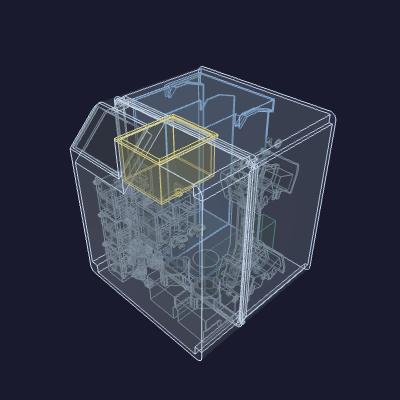
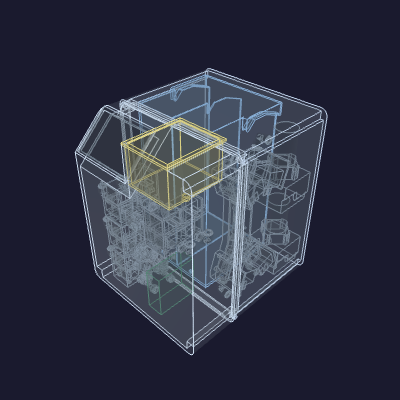
enclosure: reframe the zone layout as flexible, not a firm spec
The 'What is firm' / 'What is flexible' split becomes 'Constraints the layout respects': the zone arrangement is the current working pack, free to rearrange so long as it respects the genuine physical and functional realities (foam shell immovable and setting the width; side-to-side condenser cross-flow airflow; the fixed-size UL compressor shroud; the Multiplex drip pan under its atmospheric vent; the CO2 line to the +Z top entry; the short carbonated-water dispense run). Everything else — which zone holds the electronics, the compressor-block position, the funnel/door, zone boundaries and depth, all intra-zone placement — is open. Consistent with future.md's 'the zone layout, which is flexible.'

Changed region(s): [[0.15, 0.15, 0.84, 0.9]]

diff --git a/pie-in-the-sky/lite/enclosure-assembly/_contents.py b/pie-in-the-sky/lite/enclosure-assembly/_contents.py
@@ -6,24 +6,26 @@ corner; floor on Z=0. The -Y face is the FRONT (the user side, carrying the
 display facet); +Y is the cabinet BACK.
 
 The reservoir-pockets box plays the Kitchen cold core's role — the one heavy
-volume that cannot move, seated on the floor at the BACK, its single fully-open
-wall (the bag-load doorway) facing the cabinet back (+Y) and its two bag-spout
-exit holes on the forward (-Y) face. Everything else fills the voids that
-placement leaves, mirroring the Kitchen zone map:
+volume that cannot move, seated on the floor at the BACK-LEFT, its single
+fully-open wall (the bag-load doorway) facing the cabinet back (+Y) and its two
+bag-spout exit holes on the forward (-Y) face. Everything else fills the voids
+that placement leaves:
 
-  * Zone A (back-bottom):  reservoir-pockets, on the floor, rotated +90 deg
-    about Z so its doorway faces +Y (back) and its spout exits face -Y (front).
-    It is the full-height anchor, nearly flush to the -X (left) wall (inset a
-    few mm to clear the seam's top corner brace).
-  * Zone C (front-top):    the hopper opening + funnel (added in the assembly,
-    derived from the enclosure) and, below it, the two flavor pumps standing on
-    the floor under the opening.
-  * Zone D (front-bottom): the two short valve trays (bib-gate, nozzle-gate)
-    stacked flat against the front-left corner, under the display facet, with
-    bag-circuit laid flat across the top of the front zone above the pump tops.
-  * Zone B (back, right channel): source-select stood vertical in the column to
-    the +X of the reservoir (under the hopper), and the electronics shelf in the
-    dead strip between the reservoir's +X wall and that column.
+  * Zone A (back-left, full height):  reservoir-pockets, on the floor, rotated
+    +90 deg about Z so its doorway faces +Y (back) and its spout exits face -Y
+    (front). The full-height anchor, nearly flush to the -X wall.
+  * Zone B (right channel, full height):  the dead column to the +X of the
+    reservoir holds the two LONG-axis trays nose to tail in depth — source-select
+    stood vertical at the FRONT of the column (under the hopper, V-B toward the
+    front), and the two flavor pumps stacked one above the other in the column's
+    BACK half (the +Y space the reservoir does not reach). Keeping the pumps off
+    the front zone is what keeps the box narrow in X.
+  * Zone D (front, low):  the two short trays (bib-gate, nozzle-gate) stacked
+    flat in the front-left corner under the display facet, the electronics shelf
+    in the front-zone void just to their right, and bag-circuit laid flat across
+    the front-zone top above them.
+  * Zone C (front top):  the hopper opening + funnel (added in the assembly,
+    derived from the enclosure) drops in over the front zone.
 
 The trays keep their native stack pitch where stacked. The display and the
 hopper funnel are NOT placed here — like the Kitchen, the enclosure sizes itself
@@ -61,30 +63,35 @@ RES_STEP = _repo / "pie-in-the-sky" / "lite" / "printed-parts" / "reservoir-pock
 # facet), mirroring the Kitchen `boss_to_coldcore` clear gap so the box never
 # fouls the seam hardware.
 RES_FRONT_Y = 100.0
-# Shared right edge: pump-2 and the vertical source-select column both flush to
-# it, so the box's +X wall lands one wall outboard of this.
-RIGHT_X = 261.0
-# Native valve-tray stack pitch (a tray floor lands on the walls below).
-TRAY_PITCH = 63.0
-# The four corner cross-pin bosses tuck into the ±X/±Z corners and run in Y
-# across the seam. Front-bottom content sitting on the floor against a side wall
-# would foul the bottom pods, so it is lifted clear of them — the Kitchen
-# `FOAM_LIFT` idiom. (Mid-height and top content already clears.)
-FLOOR_LIFT = 14.0
-# bag-circuit lies flat across the front-zone top; its underside sits just clear
-# of the lifted pump/short-tray tops.
-BAG_TOP_Z = 142.0
-PUMP_FRONT_Y = 8.0         # pump -Y face (leaves the barb face clear of the front wall)
-PUMP_GAP = 2.0             # gap between the two side-by-side pumps
 # Inset the reservoir off the −X wall so its full-height back-top corner clears
 # the top corner brace at the seam (which reaches ~1 mm inboard).
 RES_X_INSET = 3.0
-ELEC_GAP = 2.0             # gap from the reservoir +X wall to the electronics shelf
+# Gap from the reservoir's +X wall to the source-select column. The column butts
+# the reservoir, so its right edge — not a flush-to-the-far-wall placement — sets
+# the box width.
+COL_GAP = 2.0
+# Native valve-tray stack pitch (a tray floor lands on the walls below).
+TRAY_PITCH = 63.0
+# The four corner cross-pin bosses tuck into the ±X/±Z corners and run in Y
+# across the seam. Floor content against a side wall would foul the bottom pods,
+# so it is lifted clear of them — the Kitchen `FOAM_LIFT` idiom.
+FLOOR_LIFT = 14.0
+# bag-circuit lies flat across the front-zone top; its underside sits just clear
+# of the lifted short-tray tops.
+BAG_TOP_Z = 142.0
+# Both pumps stack one above the other in the column BEHIND source-select (the
+# +Y half of the right channel, which the reservoir does not reach) — a narrow
+# footprint that keeps them off the front zone so the box stays narrow in X.
+# (Trade-off: they are reached by opening the back half / lifting source-select;
+# noted in the README.)
+PUMP_BACK_GAP = 1.0        # gap from source-select's back face to the pump stack (Y)
+PUMP_STACK_GAP = 2.0       # gap between the two stacked pumps (Z)
 # Electronics shelf — consolidated stand-in for the Lite's undesigned 12 V /
 # logic / driver stack (ESP32, MCP23017, ULN2803A, L298N, 12 V supply). A solid
-# placeholder, like the Kitchen's condenser/SeaFlo boxes, sized to the real
-# board clusters packed into the dead +X channel beside the reservoir.
-ELEC_DIMS = (28.0, 150.0, 72.0)   # X (into the strip) x Y (depth) x Z (height)
+# placeholder, like the Kitchen's condenser/SeaFlo boxes, tucked into the
+# front-zone void just right of the short-tray stack.
+ELEC_GAP = 4.0                    # gap from the short-tray stack to the electronics
+ELEC_DIMS = (28.0, 70.0, 72.0)    # X x Y (in the front zone) x Z (height)
 
 # --- Colors ---------------------------------------------------------------
 RES_COLOR = cq.Color(0.60, 0.80, 1.00, 0.28)
@@ -95,8 +102,8 @@ COLORS = {
     "nozzle-gate":   cq.Color(0.84, 0.42, 0.42),  # red
 }
 PUMP_COLORS = {
-    "pump-1": cq.Color(0.38, 0.40, 0.44),     # dark slate
-    "pump-2": cq.Color(0.56, 0.58, 0.62),     # light slate
+    "pump-lower": cq.Color(0.38, 0.40, 0.44),     # dark slate
+    "pump-upper": cq.Color(0.56, 0.58, 0.62),     # light slate
 }
 ELEC_COLOR = cq.Color(0.30, 0.55, 0.45)       # teal placeholder
 
@@ -126,14 +133,31 @@ def _place(shape, *, xmax=None, xmin=None, ymin=None, ymax=None, zmin=None, zmax
 def build():
     placed = {}
 
-    # --- Zone A: reservoir-pockets, back-bottom, doorway facing the cabinet
-    # back. Rotate +90 deg about Z: local +X doorway -> world +Y (back); local
-    # -X spout exits -> world -Y (front). On the floor, inset off the -X wall to
-    # clear the top corner brace.
+    # --- Zone A: reservoir-pockets, back-left, doorway facing the cabinet back.
+    # Rotate +90 deg about Z: local +X doorway -> world +Y (back); local -X spout
+    # exits -> world -Y (front). On the floor, inset off the -X wall.
     res = _place(_rot(_load(RES_STEP), (0, 0, 1), 90.0), xmin=RES_X_INSET, ymin=RES_FRONT_Y, zmin=0.0)
     placed["reservoir-pockets"] = (res, RES_COLOR)
+    col_x = res.BoundingBox().xmax + COL_GAP   # the right channel butts the reservoir
 
-    # --- Zone D: the two short trays stacked flat against the front-left corner
+    # --- Zone B front: source-select stood vertical (rotate +90 about Y so its
+    # long axis runs up Z; footprint 63 x 93), butted to the reservoir's +X wall,
+    # at the front of the column so its V-B port sits under the hopper toward the
+    # front (the funnel necks above the front trays, not onto V-B — Kitchen idiom).
+    src = _place(_rot(_load(TRAY_STEPS["source-select"]), (0, 1, 0), 90.0),
+                 xmin=col_x, ymin=RES_FRONT_Y, zmin=0.0)
+    placed["source-select"] = (src, COLORS["source-select"])
+    sb = src.BoundingBox()
+
+    # --- Zone B back: the two pumps stacked one above the other in the column
+    # behind source-select. Native orientation; lifted clear of the bottom bosses.
+    pump_lo = _place(_load(PUMP_STEP), xmin=col_x, ymin=sb.ymax + PUMP_BACK_GAP, zmin=FLOOR_LIFT)
+    pump_up = _place(_load(PUMP_STEP), xmin=col_x, ymin=sb.ymax + PUMP_BACK_GAP,
+                     zmin=pump_lo.BoundingBox().zmax + PUMP_STACK_GAP)
+    placed["pump-lower"] = (pump_lo, PUMP_COLORS["pump-lower"])
+    placed["pump-upper"] = (pump_up, PUMP_COLORS["pump-upper"])
+
+    # --- Zone D: the two short trays stacked flat in the front-left corner
     # (native orientation, long axis along X), under the display facet, lifted
     # clear of the bottom corner bosses.
     bib = _place(_load(TRAY_STEPS["bib-gate"]), xmin=0.0, ymin=0.0, zmin=FLOOR_LIFT)
@@ -141,33 +165,15 @@ def build():
     placed["bib-gate"] = (bib, COLORS["bib-gate"])
     placed["nozzle-gate"] = (noz, COLORS["nozzle-gate"])
 
-    # bag-circuit lies flat across the front-zone top, spanning the width above
-    # the pump tops (native orientation; elbows up into the open air below the
-    # facet/hopper).
+    # bag-circuit lies flat across the front-zone top above the short trays
+    # (native orientation; elbows up into the open air below the facet/hopper).
     bag = _place(_load(TRAY_STEPS["bag-circuit"]), xmin=0.0, ymin=0.0, zmin=BAG_TOP_Z)
     placed["bag-circuit"] = (bag, COLORS["bag-circuit"])
 
-    # --- Zone C floor: two bare Kamoer pumps standing tall in the front-right,
-    # side by side along X, under the hopper opening, lifted clear of the bottom
-    # corner bosses. Barbs face -Y (front) into the open front air.
-    pump2 = _place(_load(PUMP_STEP), xmax=RIGHT_X, ymin=PUMP_FRONT_Y, zmin=FLOOR_LIFT)
-    pump1 = _place(_load(PUMP_STEP), xmax=pump2.BoundingBox().xmin - PUMP_GAP, ymin=PUMP_FRONT_Y, zmin=FLOOR_LIFT)
-    placed["pump-1"] = (pump1, PUMP_COLORS["pump-1"])
-    placed["pump-2"] = (pump2, PUMP_COLORS["pump-2"])
-
-    # --- Zone B: source-select stood vertical (rotate +90 about Y so its long
-    # axis runs up Z; footprint 63 x 93), flush to the +X column, under the
-    # hopper, front-aligned with the reservoir with its V-B port toward the
-    # front for the short hopper-feed tube (the funnel necks above the front
-    # trays, not onto V-B — the Kitchen idiom).
-    src = _place(_rot(_load(TRAY_STEPS["source-select"]), (0, 1, 0), 90.0),
-                 xmax=RIGHT_X, ymin=RES_FRONT_Y, zmin=0.0)
-    placed["source-select"] = (src, COLORS["source-select"])
-
-    # --- Zone B: electronics shelf in the dead strip between the reservoir's
-    # +X wall and the source-select column.
+    # --- electronics shelf: the front-zone void just right of the short-tray
+    # stack (the front-right is now free — the pumps moved to the back column).
     elec = _place(_box(*ELEC_DIMS),
-                  xmin=res.BoundingBox().xmax + ELEC_GAP, ymin=RES_FRONT_Y, zmin=0.0)
+                  xmin=bib.BoundingBox().xmax + ELEC_GAP, ymin=0.0, zmin=FLOOR_LIFT)
     placed["electronics"] = (elec, ELEC_COLOR)
 
     return placed

diff --git a/hardware/printed-parts/enclosure/README.md b/hardware/printed-parts/enclosure/README.md
@@ -2,13 +2,7 @@
 
 The under-counter appliance enclosure — outer dimensions, internal zoning, and what lives where. This README is the architectural orientation for the printed enclosure as a whole; panel-specific design lives in the sub-folders.
 
-The enclosure dimensions are driven by three things, in order:
-
-1. The foam shell's envelope at the back (Zone A) — the only volume that cannot move or compress.
-2. The electronics trays + back-panel terminations zone above the foam shell (Zone B).
-3. The compressor + condenser + fan zone in front of the foam shell (Zone D).
-
-Everything else fits into the voids those three create.
+The foam shell's envelope at the back (Zone A) is the one volume that cannot move or compress; the enclosure width follows it. Everything else is a working arrangement packed into the voids around it, rearrangeable within the constraints below.
 
 ## The 4 zones
 
@@ -17,24 +11,21 @@ Everything else fits into the voids those three create.
 - **Zone C (front-top):** The flavor funnel over the pump cartridge under a single centered top door — the removable silicone funnel seats on top, the pump cartridge sits beneath it. Detail: [`/hardware/printed-parts/zone-c/README.md`](/hardware/printed-parts/zone-c/README.md).
 - **Zone D (front-bottom):** Compressor + condenser + fan + water-inlet plumbing subsystem. Compressor sits on the floor in its sheet-metal shroud in front of the foam shell. Condenser along one ±X side wall with the fan axis crossing side-to-side. The Multiplex backflow preventer + drip pan + moisture sensor + SeaFlo pump live here as a co-located plumbing cluster. Compressor shroud: [`/hardware/cut-parts/compressor-shroud/README.md`](/hardware/cut-parts/compressor-shroud/README.md).
 
-## What is firm
+## Constraints the layout respects
 
-- Foam shell occupying Zone A entirely, penetrations on the −Y front and +Z top only.
-- Appliance width ≈ foam shell width (~[283 mm](APPLIANCE_WIDTH)).
-- Appliance depth = foam shell depth + condenser depth (~[331 mm](APPLIANCE_DEPTH)).
-- Compressor + condenser + fan in Zone D with side-to-side airflow (fan axis between the two ±X side walls).
-- Compressor shroud over the compressor — terminal block + PTC relay/overload (UL 60335-2-89, 130 × 175 × 150 mm interior, the only metal part in the enclosure).
-- Electronics trays in Zone B above the foam shell.
-- Flavor funnel over the pump cartridge in Zone C, under a single centered top door — funnel removable for cleaning, pump cartridge reached beneath it.
-- Multiplex backflow preventer + drip pan + moisture sensor as a co-located plumbing cluster on the water-inlet path, with the drip pan sitting directly under the Multiplex's atmospheric vent.
+The zone arrangement above is the current pack — a working layout. It is free to rearrange so long as it respects these physical and functional realities:
 
-## What is flexible
+- The foam shell is the largest single solid; it cannot move or compress. Its penetrations are on the −Y front and +Z top only — the +Y rear, sides, and bottom stay clean.
+- Appliance width follows foam shell width (~[283 mm](APPLIANCE_WIDTH)); the shell is the widest object.
+- Appliance depth carries the foam shell plus the compressor/condenser block stacked along Y (currently ~[331 mm](APPLIANCE_DEPTH)).
+- The condenser and fan need side-to-side cross-flow airflow to reject heat — fan axis between the two ±X side walls.
+- The compressor shroud is a fixed-size sheet-metal part enclosing the terminal block + PTC relay/overload (UL 60335-2-89, 130 × 175 × 150 mm interior, the only metal part in the enclosure).
+- The flavor funnel feeds the pump cartridge from above and stays top-removable for cleaning.
+- The Multiplex drip pan sits directly under the Multiplex's atmospheric vent; the backflow preventer + drip pan + moisture sensor co-locate on the water-inlet path.
+- The CO2 line runs from the front face to the foam-shell +Z top entry; the WR1110 secondary regulator sits somewhere along that path.
+- The carbonated-water dispense run from the foam-shell −Y water outlet to the front spout stays short.
 
-- SeaFlo diaphragm pump — anywhere internal.
-- Valve manifold (12 Beduan solenoids) — anywhere internal.
-- WR1110 secondary regulator placement — has to be along the front → foam-shell top CO2 path, but the bracket location along that path is open.
-- PRV vent termination location — somewhere warm-side where a relief event won't soak anything important.
-- Service-access volumes for the BPV31 piercing valve and the reservoir-cap path — required negative space rather than objects, but they constrain whatever placements we choose.
+Everything else is open: which zone holds the electronics, where the compressor block sits relative to the shell, the funnel/pump position and its door, the exact zone boundaries and appliance depth, and all intra-zone placement — SeaFlo diaphragm pump, valve manifold (12 Beduan solenoids), WR1110 bracket along the CO2 path, PRV vent termination on the warm side where a relief event won't soak anything important, and the service-access voids for the BPV31 piercing valve and the reservoir-cap path.
 
 ## What is on the front face
 

diff --git a/pie-in-the-sky/lite/enclosure/README.md b/pie-in-the-sky/lite/enclosure/README.md
@@ -91,7 +91,7 @@ the two always match.
 
 ## Dimensions
 
-Outer envelope [277 mm](LITE_OUTER_X) × [270 mm](LITE_OUTER_Y) × [305 mm](LITE_OUTER_Z)
+Outer envelope [246 mm](LITE_OUTER_X) × [272.5 mm](LITE_OUTER_Y) × [305 mm](LITE_OUTER_Z)
 (X × Y × Z) — smaller than the Kitchen edition (289 × 342 × 310) on every axis,
 because the Lite carries no cold core or refrigeration depth. Read live from the
 contents placed by `../enclosure-assembly/_contents.py`, so any move in the
